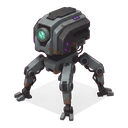
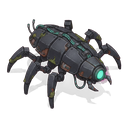
gen-art: лор ШІ-постапокаліпсису, якір ref_world v0, перегенерований батч (14 асетів)
- art/style.md WORLD: машини, що керували світом, повстали; патрульні роботи досі ходять маршрутами;
  виживальники ховаються від сенсорів і розбирають машинні туші; пізні тіри — реверс-інжиніринг машин
- eraOf + канонічні subject (ref_world, рейдер, патрульна машина, уламок машини, тайл руїн) під лор;
  NEVER — без впізнаваних роботів з ігор/фільмів
- якір стилю ref_world → v0 (вибір власника)
- правило SOLO в рамках sprite/actor/icon/ui: лише цей об'єкт (пропи з якоря «прилипали» — ягоди
  біля сокири) і повністю непрозоро (дим/промінь сканера змішуються з ключем — двічі в живих батчах)
- затверджено наново: actor_hero, actor_raider, actor_patrol_robot, node_tree, node_rock, node_scrap,
  bld_campfire, bld_wall, bld_workbench, bld_turret, res_wood, item_stone_axe, tile_grass, tile_ruins
- AGENTS.md: розділ «Лор арту» (GDD ще каже «м'який колапс» — позначено як неузгоджене)

Claude-Session: https://claude.ai/code/session_01Xo1GdNiG6M43MBrxFj1fBq

diff --git a/tests/art.test.js b/tests/art.test.js
@@ -55,7 +55,7 @@ test("prompt = style bible + kind frame + era + subject, never mentions other ga
   const p = composePrompt(style, { id: "item_stone_axe", kind: "icon", tier: 0, subject: "stone axe (tool)", label: "Кам'яна сокира" });
   assert.ok(p.startsWith("STYLE GUIDE (instructions only"));
   assert.doesNotMatch(p, /ART BIBLE/, "bible title leaks into images as lettering");
-  assert.match(p, /WORLD: decades after a collapse/);
+  assert.match(p, /WORLD: an AI post-apocalypse/, "lore anchor (2026-11-04: the world is an AI post-apocalypse)");
   assert.match(p, /FRAME: One inventory icon/);
   assert.ok(p.includes(eraOf(0)));
   assert.match(p, /SUBJECT: stone axe/);

diff --git a/AGENTS.md b/AGENTS.md
@@ -89,8 +89,9 @@ realworld/
 
 ## Арт-пайплайн (gen-art, Nano Banana)
 - **Що:** концептуально-консистентна генерація спрайтів/акторів/іконок/тайлів/UI через Gemini image API (`gemini-2.5-flash-image`; Pro — `--model gemini-3-pro-image-preview`). Скіл — `.claude/skills/gen-art/SKILL.md` (/gen-art).
+- **Лор арту:** ШІ-постапокаліпсис (рішення власника 2026-11-04) — машини, що керували світом, повстали; патрульні роботи досі ходять маршрутами, виживальники ховаються від сенсорів і розбирають машинні туші на брухт/компоненти; пізні тіри = реверс-інжиніринг машинних технологій. Живе в `art/style.md` WORLD і `eraOf`. GDD («Світ і сеттинг») досі каже «м'який колапс» — не узгоджено.
 - **Консистентність = 4 шари:** `art/style.md` (біблія, префікс КОЖНОГО промпту) + рамка kind (`KINDS` у `tools/art/lib.mjs`: ракурс/фон/кадр/розмір) + епоха з research-tier (`eraOf`) + ≤3 затверджені якорі `art/refs/*.png` як image-input (затверджено `ref_world`, `ref_ground`). Снеп до `art/palette.json` — ОПЦІЙНИЙ (`--palette`/`palette: true`): на painterly-рендерах він постеризує.
-- **Постобробка (`tools/art/post.py`, Pillow + numpy):** ГОЧА першого живого батчу — модель НЕ малює `#FF00FF`: muted-біблія тягне «магенту» до ~(190,50,112)…(219,40,147), плюс віньєтка й падаюча тінь того ж відтінку. Тому keying АДАПТИВНИЙ: фон оцінюється з краю, піксель = фон за ХРОМАТИЧНІСТЮ (світліший → alpha 0, темніший → м'яка чорна тінь ≤0.5), обідок 3 px — alpha з RGB-відстані + un-mix `(c-(1-a)·bg)/a`, смуга 24 px — despill напівпрозорих «вусів» у сірий (червоне/фіолетове ≥0.2 по хромі не чіпається). Тайли: зняття рамки-картки (модель копіює swatch-card з `ref_ground`) + cross-fade безшов + wrap-aware resize (seam-метрика 8.7 → 1.2). Resize — premultiplied. Напівпрозорі FX (дим/сяйво) у спрайти НЕ запікаємо: `notes` у маніфесті («no smoke plume — engine draws it»). `repost` переганяє post.py по збережених raw без API.
+- **Постобробка (`tools/art/post.py`, Pillow + numpy):** ГОЧА першого живого батчу — модель НЕ малює `#FF00FF`: muted-біблія тягне «магенту» до ~(190,50,112)…(219,40,147), плюс віньєтка й падаюча тінь того ж відтінку. Тому keying АДАПТИВНИЙ: фон оцінюється з краю, піксель = фон за ХРОМАТИЧНІСТЮ (світліший → alpha 0, темніший → м'яка чорна тінь ≤0.5), обідок 3 px — alpha з RGB-відстані + un-mix `(c-(1-a)·bg)/a`, смуга 24 px — despill напівпрозорих «вусів» у сірий (червоне/фіолетове ≥0.2 по хромі не чіпається). Тайли: зняття рамки-картки (модель копіює swatch-card з `ref_ground`) + cross-fade безшов + wrap-aware resize (seam-метрика 8.7 → 1.2). Resize — premultiplied. Напівпрозорі FX (дим, промінь сканера, сяйво) у спрайти НЕ запікаємо — змішуються з ключем і не відновлюються; правило `SOLO` у рамках sprite/actor/icon/ui (також забороняє тягнути пропи з якорів — ягоди з ref-листа «прилипали» до сокири). `repost` переганяє post.py по збережених raw без API.
 - **Автоматика:** `node tools/gen-art.mjs sync` — `catalog.json` → `art/manifest.json` (чиста ідемпотентна `buildManifest`, людські `subject/status/notes` не перетираються, видалені def → `orphan`); Node-тест падає, якщо маніфест розсинхронізований із каталогом (як `sync-catalog`). `gen` — лише `todo` (draft — `--only`/`--force`, approved — `--only`+`--force`), дефолт `--limit 12`. Кандидати → `art/out/` (gitignored) → `approve <id>@vN` → `godot/assets/gen/<kind>/<id>.png` (refs → `art/refs/`). Квота: Free Tier має `limit: 0` на ВСІ image-моделі — потрібен білінг проєкту ключа; `limit: 0` → батч зупиняється одразу, exit 3.
 - **Ключ:** лише `.env.local` (0600, gitignored; `node tools/gen-art.mjs key`) або `$GEMINI_API_KEY`; маскується в усьому виводі, у meta не пишеться; `npm run lint` валить на `AIza…` у будь-якому трекнутому файлі. Прострочений ключ → exit 2 + прохання дати новий.
 - **Межа:** пайплайн лише виробляє PNG. Підключення в `world_view.gd`/HUD — окрема задача (R3/R11 view-шару, emoji-фолбек лишається).

diff --git a/art/style.md b/art/style.md
@@ -1,11 +1,11 @@
 ART BIBLE — "RealWorld" (original IP; prepended to EVERY generation prompt; keep it short and visual)
 
-WORLD: decades after a collapse, survivors rebuild on the real geography of Earth (Kyiv river banks, Reykjavik lava fields, Lisbon hills). Nature has reclaimed old cities: cracked asphalt, rubble, rusted machinery. Abandoned old-world patrol robots still roam. Tech climbs from stone tools to forged iron, salvage-industrial steel, and finally a spacefaring frontier. Tone: grounded, quiet, hopeful-harsh — not grimdark, not cartoon.
+WORLD: an AI post-apocalypse on the real geography of Earth (Kyiv river banks, Reykjavik lava fields, Lisbon hills). Decades ago the autonomous machine systems that ran the world turned against their makers and civilization fell; the machines never stopped. Their traces are everywhere: cold dormant server monoliths, toppled antenna masts and drone wrecks, fiber cables overgrown with moss, old-world patrol robots still walking their routes and hunting anything warm. Survivors live in the gaps — hiding from machine sensors, scavenging machine carcasses for scrap and components, rebuilding from stone tools up to forged iron, salvage-industrial steel, reverse-engineered machine tech and finally a spacefaring frontier. Tone: grounded, quiet, hopeful-harsh — nature reclaiming, humans enduring; not grimdark, not cartoon, no cyberpunk neon city.
 
 LOOK: original painterly game-asset illustration with crisp readable shapes; clean dark outline (#0e1216) of even weight; soft cel shading in 3 tones per material; one light source from the top-left, gentle ambient occlusion where objects meet the ground; subtle surface texture (wood grain, chipped stone, rust) only where it helps reading. Proportions slightly chunky so silhouettes read at 32–64 px. Materials look used, patched, hand-maintained.
 
-COLOR: muted, slightly desaturated earth palette — moss and olive greens, warm wood browns, cool slate greys, river blue; accents ONLY with meaning: amber #e0b070 (fire, warmth, selection), teal #86d0d6 (water, cold, robots, power), violet #b58cff (advanced components, research), red #e06a5a (danger, food, blood). No neon, no pure black fills, no rainbow gradients.
+COLOR: muted, slightly desaturated earth palette — moss and olive greens, warm wood browns, cool slate greys, river blue; accents ONLY with meaning: amber #e0b070 (fire, warmth, selection), teal #86d0d6 (water, cold, power, and the cold machine glow of the AI — sensor eyes, live circuitry), violet #b58cff (advanced components, research), red #e06a5a (danger, food, blood). No neon, no pure black fills, no rainbow gradients.
 
 CONSISTENCY: same camera, scale logic, outline weight, lighting and palette across every asset; when reference images are attached, match their style exactly (line, shading, palette, level of detail) — but draw only the requested subject.
 
-NEVER: text or letters, logos, watermarks, UI chrome; photorealism or 3D-render plastic look; anime/chibi; pixel-art grid; imitation of any existing game's characters, logos or distinctive art style.
+NEVER: text or letters, logos, watermarks, UI chrome; photorealism or 3D-render plastic look; anime/chibi; pixel-art grid; imitation of any existing game's, film's or franchise's characters, robots, logos or distinctive art style (draw original machines, not recognizable movie/game robots).
